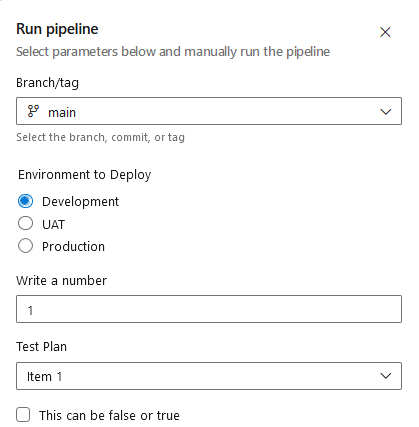
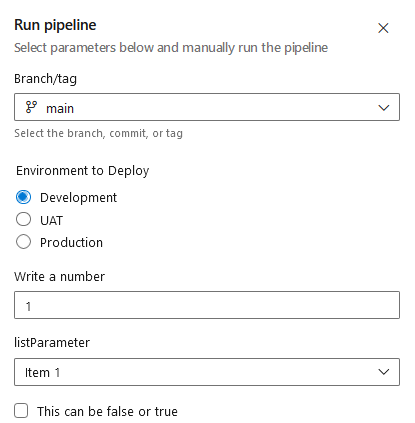
ParentChild YAML update Readme

diff --git a/YAML/parent-child Pipelines/README.md b/YAML/parent-child Pipelines/README.md
@@ -1,0 +1,52 @@
+# Parent-Child Pipeline Example
+In this example I wanted to show how the parameters you configure in an Azure DevOps Pipeline appears when you try to run it. 
+
+This is how Azure DevOps show the parameters before running the pipeline:
+![Pipeline](https://github.com/fergavgo/Azure-DevOps/blob/39e3b2e3cc0396853726505e736ce12a0ba618ed/YAML/parent-child%20Pipelines/RunPipeline.png)
+
+
+This is for radiobutton-like options:
+
+```
+parameters:
+- name: Environment
+  displayName: 'Environment to Deploy'
+  type: string
+  default: Development
+  values:
+  - Development
+  - UAT
+  - Production
+```
+
+
+For text fields:
+
+```
+- name: numberParameter
+  displayName: "Write a number"
+  type: string
+  default: 1
+```
+
+For a list:
+```
+- name: listParameter
+  displayName: "listParameter"
+  type: string
+  default: Item 1
+  values:
+  - Item 1
+  - Item 2
+  - Item 3
+  - Item 4
+  - Item ...
+```
+
+For a checkbox:
+```
+- name: booleanParameter
+  displayName: "This can be false or true"
+  type: boolean
+  default: false
+```
